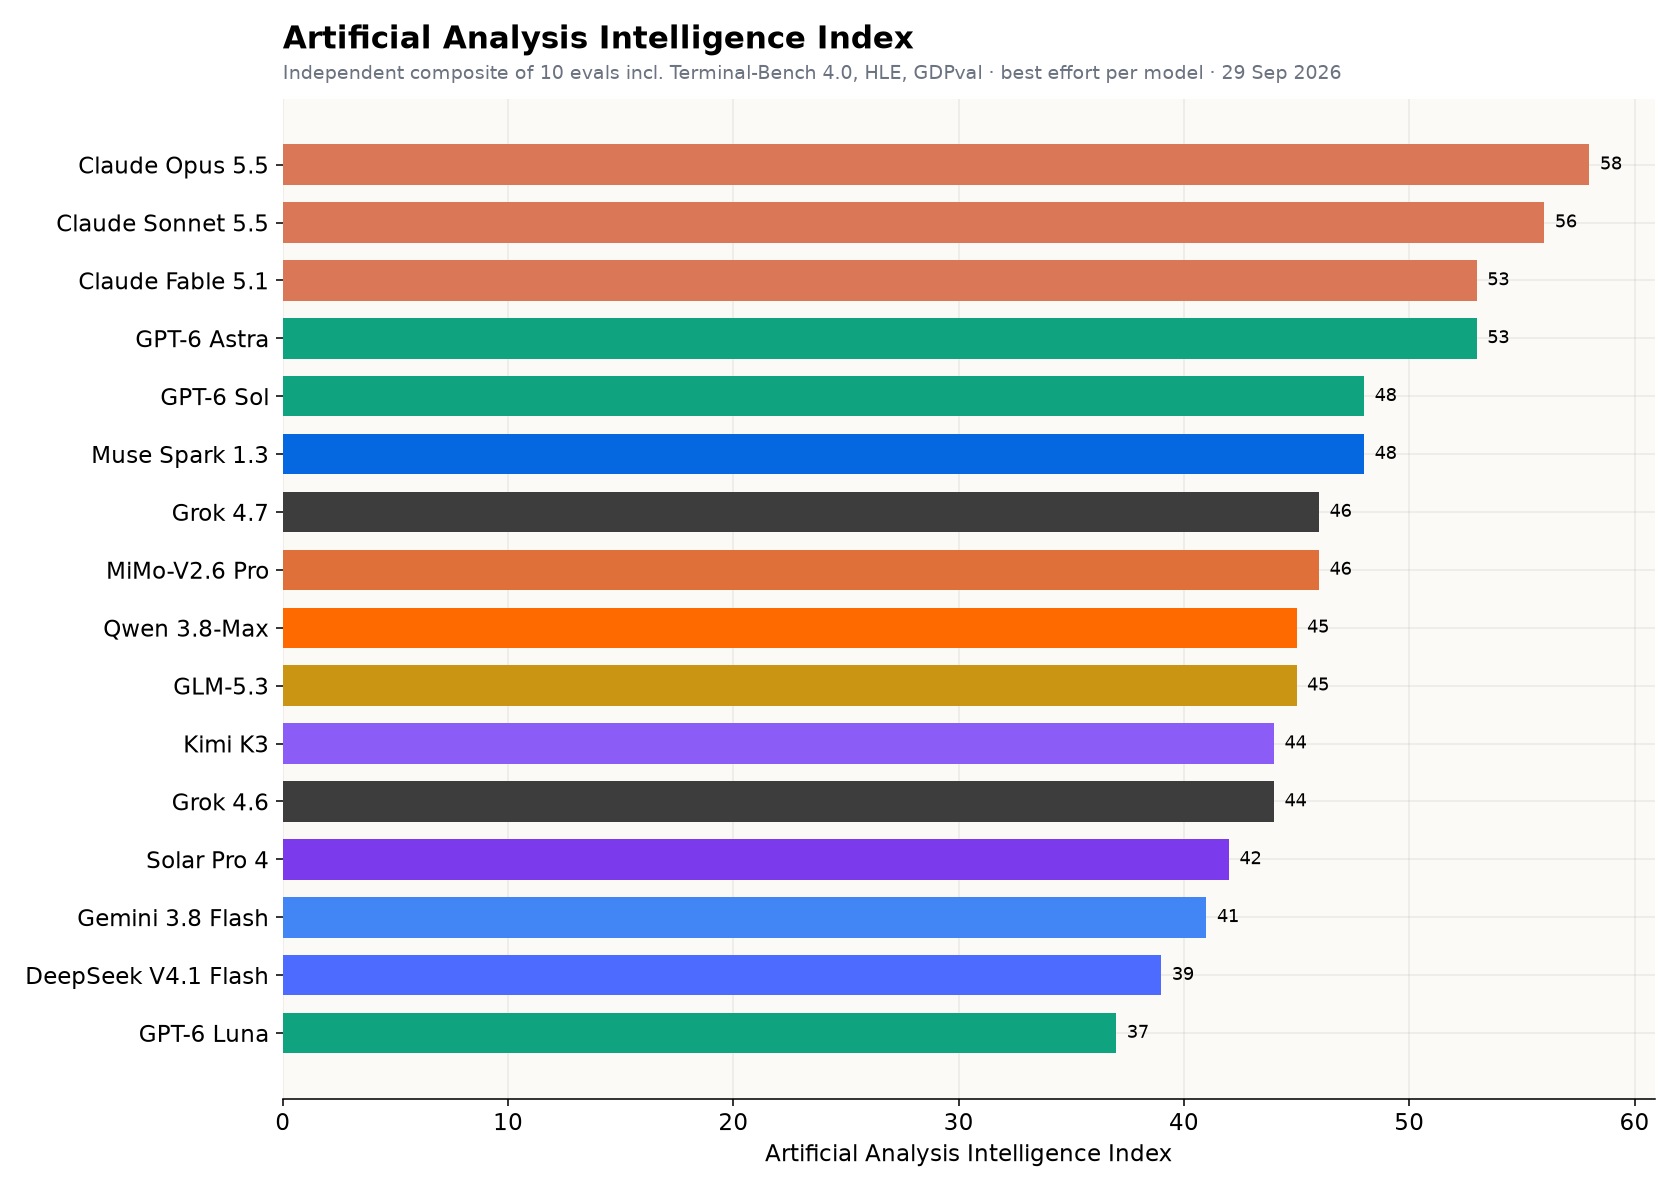
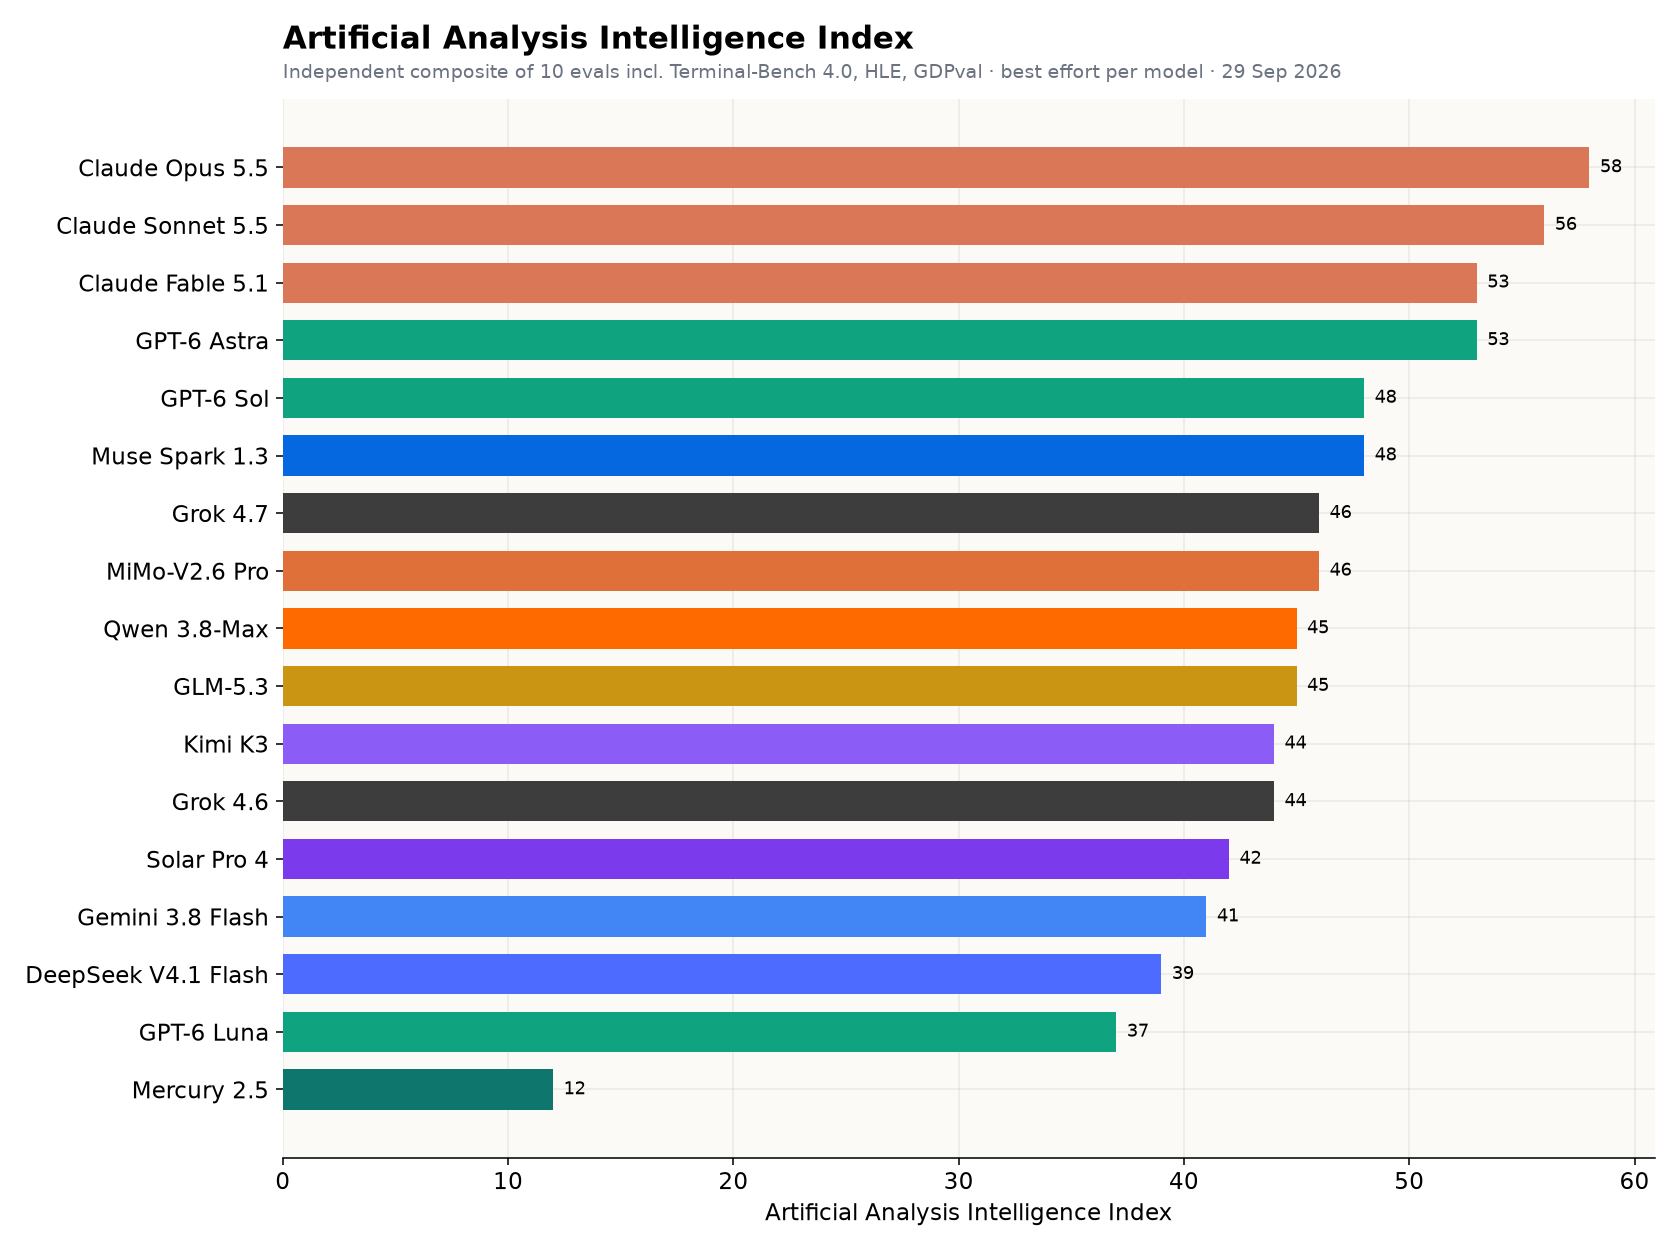
correct Mercury 2 and 2.5 specs, note free Jev access
Mercury 2.5 is $0.25/$0.75 with an Artificial Analysis index of 12; Jev is free through NaraRouter.

diff --git a/MODELS.md b/MODELS.md
@@ -105,11 +105,11 @@ parallel — much faster output at similar quality to small frontier models.
 
 | Model | By | Speed | Price in/out per 1M | Notes |
 |---|---|---|---|---|
-| **Mercury 2.5** (Sept 8) | Inception Labs | ~785–1,100 tok/s | $0.20 / $0.75 (launch promo $0.04 / $0.15) | 260K ctx, 65K out. ~40% smarter than Mercury 2; comparable to GPT-5.6 Luna (low), Gemini 3.5 Flash-Lite, Haiku 4.5. On OpenRouter (`inception/mercury-2.5`) |
-| **Mercury 2** | Inception Labs | sub-300 ms first token | — | First reasoning dLLM; still on OpenRouter |
+| **Mercury 2.5** (Sept 8) | Inception Labs | ~760 tok/s measured (Artificial Analysis, #3 fastest of 174 models) | $0.25 / $0.75 | 260K ctx, 65K out. AA Intelligence Index **12** — very fast and cheap but well below frontier models; ~40% smarter than Mercury 2 per Inception. On OpenRouter (`inception/mercury-2.5`) |
+| **Mercury 2** | Inception Labs | ~1,000 tok/s on Blackwell (vendor) | $0.25 / $0.75 | 128K ctx, tunable reasoning, tool use, JSON mode, OpenAI-compatible; still on OpenRouter |
 | **Open dLLMs** | Research labs | — | free weights | dLLM framework (arXiv 2602.22661), Open-dLLM, LLaDA line; list at github.com/VILA-Lab/Awesome-DLMs |
 
-Use them for autocomplete, fast edits, voice agents and anything latency-bound. For hard reasoning, stay on autoregressive frontier models.
+Use them for autocomplete, fast edits, voice agents and anything latency-bound. For hard reasoning, stay on autoregressive frontier models — Mercury 2.5 scores 12 on the AA Intelligence Index vs 58 for Opus 5.5.
 
 ---
 
@@ -119,7 +119,7 @@ Not chat models. They answer a typed question about a state with a calibrated pr
 
 | Model | By | Speed | Price / license | Use it for |
 |---|---|---|---|---|
-| **Jev** | TypeSafe AI (early access Sept 15) | 70–500 ms | $0.042/M input, output free. `pip install typesafe-sdk` · `npm i @typesafe-ai/sdk` · also on Vercel AI Gateway | Routing, classification, "should the agent do X?" guardrails. Question types: Choice (≤255 options), Score (2–10 levels), Noul (yes/no). Weak at arithmetic and dates |
+| **Jev** | TypeSafe AI (early access Sept 15) | 70–500 ms | $0.042/M input, output free. `pip install typesafe-sdk` · `npm i @typesafe-ai/sdk` · also on Vercel AI Gateway and **free on NaraRouter's free tier** (7M tokens/day) | Routing, classification, "should the agent do X?" guardrails. Question types: Choice (≤255 options), Score (2–10 levels), Noul (yes/no). Weak at arithmetic and dates |
 | **Laya** (via [laya-mlx](https://github.com/mizorewww/laya-mlx)) | Convai Innovations; community MLX port | 7–14 ms on M3 Max | Apache-2.0, local | Same job, fully on-device on Apple Silicon (`pip install laya-mlx`, macOS 14+). 6.6K★. Core ML sibling: laya-coreml (~5 ms) |
 
 ---

diff --git a/NEWS.md b/NEWS.md
@@ -152,7 +152,7 @@ Full tables with install commands: [SKILLS.md](./SKILLS.md#new-skills-plugins--m
 - **Motion:** official Motion AI Kit (skill + MCP) and GSAP skills; Remotion skills for video-from-code; Anime.js and Three.js skills.
 - **Browsing:** Playwright MCP + CLI now ship inside Playwright itself; Chrome DevTools MCP attaches to your live Chrome; Browser Harness (self-healing CDP harness); Agent-Reach (86K★, free Twitter/Reddit/YouTube/XiaoHongShu access); Vercel agent-browser; Stagehand v3.
 - **Dev & memory:** Context7 and Serena MCPs, ECC (269K★), GSD (64K★), claude-mem (95K★), Hindsight, OpenMemory; Paperclip (93K★) runs a company of agents; Google open-sourced `ax` / Agent Executor.
-- **New model types:** Mercury 2.5 diffusion LLM (Sept 8, ~1,000 tok/s, $0.20/$0.75) and Jev typed decisions — see [MODELS.md](./MODELS.md#diffusion-llms-new-category).
+- **New model types:** Mercury 2.5 diffusion LLM (Sept 8, ~760 tok/s measured, $0.25/$0.75, AA Index 12) and Jev typed decisions — see [MODELS.md](./MODELS.md#diffusion-llms-new-category).
 - **Local:** LM Studio **Bionic** — a free agent app for open models (code + documents + transcription).
 - **Media:** GPT Image 2.5 (Sept 8) in ChatGPT free; Sakana Fugu Ultra v2 (Sept 11) orchestrates many models behind one API.
 
